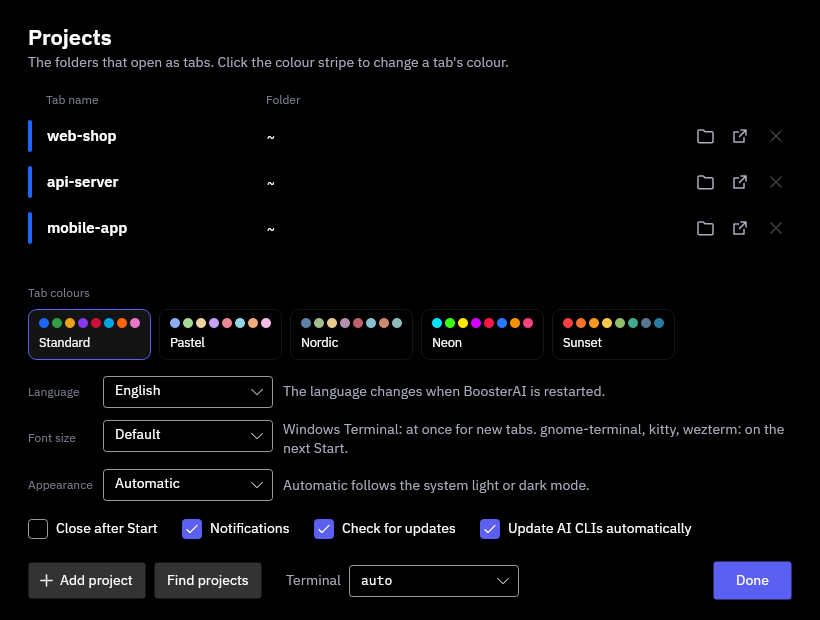
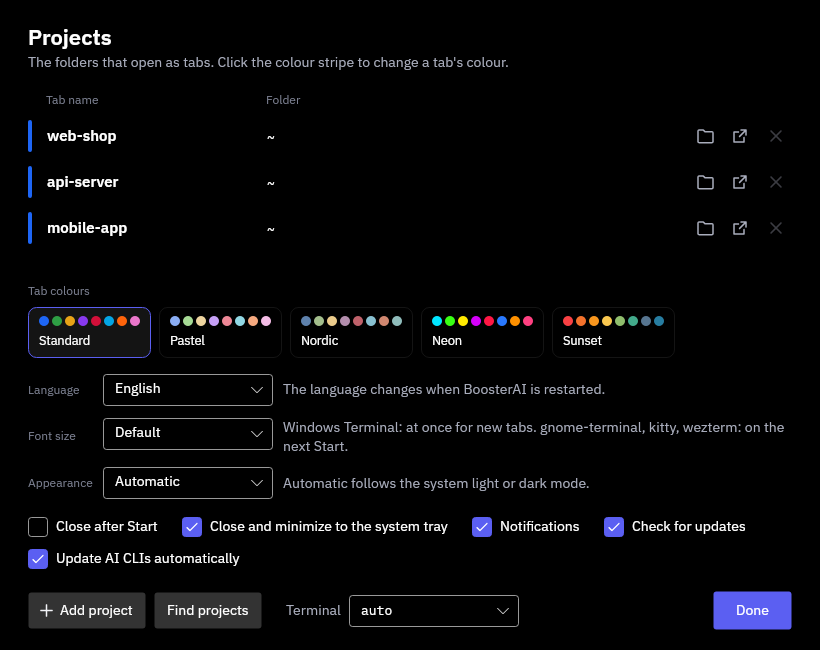
Close and minimize to the tray on Windows by default, with a setting (#64)

diff --git a/src/BoosterAI/MainWindow.axaml.cs b/src/BoosterAI/MainWindow.axaml.cs
@@ -18,9 +18,29 @@ public partial class MainWindow : Window
         _vm = vm;
         DataContext = vm;
         InitializeComponent();
-        Closing += (_, _) => _vm.Save();
+        Closing += OnClosing;
+        PropertyChanged += (_, e) =>
+        {
+            if (e.Property == WindowStateProperty && WindowState == WindowState.Minimized
+                && TrayPolicy.HideOnMinimize(_vm.MinimizeToTray, TrayAvailable())) Hide();
+        };
         Activated += (_, _) => _vm.Update.WindowActive(true);
         Deactivated += (_, _) => _vm.Update.WindowActive(false);
+    }
+
+    /// <summary>Windows only (Linux trays need a StatusNotifierItem host, missing on plain GNOME); shows the tray icon as a side effect.</summary>
+    private bool TrayAvailable() => OperatingSystem.IsWindows() && Application.Current is App app && app.ShowTray(this);
+
+    private void OnClosing(object? sender, WindowClosingEventArgs e)
+    {
+        _vm.Save();
+        // Only the user's own close can hide; probe the tray only then, so no icon appears for a real exit.
+        if (_vm.MinimizeToTray && !e.IsProgrammatic && e.CloseReason == WindowCloseReason.WindowClosing
+            && TrayPolicy.HideOnClose(_vm.MinimizeToTray, TrayAvailable(), e.CloseReason, e.IsProgrammatic, App.QuitRequested))
+        {
+            e.Cancel = true;
+            Hide();
+        }
     }
 
     private async void OnSettings(object? sender, RoutedEventArgs e)
@@ -114,8 +134,8 @@ public partial class MainWindow : Window
         if (_vm.CloseAfterLaunch) Close();
         else
         {
-            // Minimize rather than hide: the taskbar button stays, so the status is one click away.
-            // Windows also gets a tray icon; Linux trays need a StatusNotifierItem host (missing on plain GNOME).
+            // With the tray setting on (and a tray), minimizing hides the window to the tray icon; otherwise the
+            // taskbar button stays, so the status is one click away. Windows also gets a tray icon either way.
             if (OperatingSystem.IsWindows() && Application.Current is App app) app.ShowTray(this);
             WindowState = WindowState.Minimized;
         }

diff --git a/src/BoosterAI/App.axaml.cs b/src/BoosterAI/App.axaml.cs
@@ -48,7 +48,7 @@ public partial class App : Application
         // --screenshot builds its window itself (Screenshot.Run), headless and never shown.
         if (ApplicationLifetime is IClassicDesktopStyleApplicationLifetime desktop && !Screenshot.Active)
         {
-            // A minimized window keeps the app running; closing it (or Quit in the tray) ends it.
+            // A minimized or tray-hidden window keeps the app running; closing it (with Minimize to tray off), or Quit in the tray, ends it.
             desktop.ShutdownMode = ShutdownMode.OnMainWindowClose;
             var vm = new MainViewModel(_config);
             desktop.MainWindow = new MainWindow(vm);
@@ -73,13 +73,22 @@ public partial class App : Application
                 _tray = new TrayIcon { Icon = new WindowIcon(icon), ToolTipText = Loc.Get("tray.tip"), Menu = [show, quit] };
                 _tray.Clicked += (_, _) => Restore(window);
                 show.Click += (_, _) => Restore(window);
-                quit.Click += (_, _) => window.Close();
+                quit.Click += (_, _) => Quit();
                 TrayIcon.SetIcons(this, [_tray]);
             }
             _tray.IsVisible = true;
             return true;
         }
         catch (Exception) { return false; }
+    }
+
+    /// <summary>Set by the tray's Quit so the close it causes is not turned into hide-to-tray.</summary>
+    public static bool QuitRequested { get; private set; }
+
+    private void Quit()
+    {
+        QuitRequested = true;
+        if (ApplicationLifetime is IClassicDesktopStyleApplicationLifetime desktop) desktop.Shutdown();
     }
 
     private static void Restore(Window window)

diff --git a/tests/BoosterAI.Tests/TrayPolicyTests.cs b/tests/BoosterAI.Tests/TrayPolicyTests.cs
@@ -1,0 +1,33 @@
+using Avalonia.Controls;
+using BoosterAI;
+using Xunit;
+
+namespace BoosterAI.Tests;
+
+public class TrayPolicyTests
+{
+    [Fact]
+    public void MinimizeToTrayIsOnByDefault() => Assert.True(new AppConfig().MinimizeToTray);
+
+    [Fact]
+    public void UsersCloseHidesWhenSettingAndTrayAreOn() =>
+        Assert.True(TrayPolicy.HideOnClose(true, true, WindowCloseReason.WindowClosing, false, false));
+
+    [Theory]
+    [InlineData(false, true, WindowCloseReason.WindowClosing, false, false)] // setting off: today's behaviour
+    [InlineData(true, false, WindowCloseReason.WindowClosing, false, false)] // no tray: never an invisible app
+    [InlineData(true, true, WindowCloseReason.WindowClosing, true, false)]   // Close() after Start
+    [InlineData(true, true, WindowCloseReason.ApplicationShutdown, false, false)] // update install, Shutdown()
+    [InlineData(true, true, WindowCloseReason.OSShutdown, false, false)]
+    [InlineData(true, true, WindowCloseReason.WindowClosing, false, true)]   // tray Quit
+    public void OtherClosesReallyClose(bool setting, bool tray, WindowCloseReason reason, bool programmatic, bool quit) =>
+        Assert.False(TrayPolicy.HideOnClose(setting, tray, reason, programmatic, quit));
+
+    [Theory]
+    [InlineData(true, true, true)]
+    [InlineData(true, false, false)]
+    [InlineData(false, true, false)]
+    [InlineData(false, false, false)]
+    public void MinimizeHidesOnlyWithSettingAndTray(bool setting, bool tray, bool expected) =>
+        Assert.Equal(expected, TrayPolicy.HideOnMinimize(setting, tray));
+}

diff --git a/src/BoosterAI/ViewModels.cs b/src/BoosterAI/ViewModels.cs
@@ -430,6 +430,7 @@ public sealed partial class MainViewModel : Observable
         [new(Loc.Auto), new("sv"), new("en")];
 
     public bool CloseAfterLaunch { get => _cfg.CloseAfterLaunch; set { _cfg.CloseAfterLaunch = value; Raise(); } }
+    public bool MinimizeToTray { get => _cfg.MinimizeToTray; set { _cfg.MinimizeToTray = value; Raise(); } }
     public bool Notifications { get => _cfg.Notifications; set { _cfg.Notifications = value; Raise(); } }
     public bool AutoUpdateClis { get => _cfg.AutoUpdateClis; set { _cfg.AutoUpdateClis = value; Raise(); } }
 
@@ -606,7 +607,7 @@ public sealed partial class MainViewModel : Observable
     private void SettingsTakenOver()
     {
         foreach (var name in new[] { nameof(WslDistro), nameof(LinuxTerminal), nameof(Theme), nameof(SelectedTheme), nameof(SelectedLanguage),
-            nameof(SelectedAppearance), nameof(CloseAfterLaunch), nameof(Notifications), nameof(SelectedZoom), nameof(AutoUpdateClis), nameof(CheckForUpdates) })
+            nameof(SelectedAppearance), nameof(CloseAfterLaunch), nameof(MinimizeToTray), nameof(Notifications), nameof(SelectedZoom), nameof(AutoUpdateClis), nameof(CheckForUpdates) })
             Raise(name);
         foreach (var t in Tabs) t.RaiseColor();
         (Avalonia.Application.Current as App)?.ApplyTheme();

diff --git a/src/BoosterAI/Config.cs b/src/BoosterAI/Config.cs
@@ -36,6 +36,8 @@ public sealed class AppConfig
     public string AppTheme { get; set; } = "auto";
     /// <summary>Close after Start (the behaviour before tab monitoring) instead of watching the tabs from the tray.</summary>
     public bool CloseAfterLaunch { get; set; }
+    /// <summary>Windows: the close button and Minimize hide the window to the tray icon, where the tabs stay watched. Needs a working tray; Close after Start wins.</summary>
+    public bool MinimizeToTray { get; set; } = true;
     /// <summary>System notification when a watched tab closes, fails to start or its CLI fails.</summary>
     public bool Notifications { get; set; } = true;
     /// <summary>Global CLI zoom in percent of the terminal's default font size; 0 = terminal default (nothing is changed).</summary>
@@ -136,6 +138,7 @@ public static class ConfigMerge
         S(c => c.Language, (c, v) => c.Language = v),
         S(c => c.AppTheme, (c, v) => c.AppTheme = v),
         S(c => c.CloseAfterLaunch, (c, v) => c.CloseAfterLaunch = v),
+        S(c => c.MinimizeToTray, (c, v) => c.MinimizeToTray = v),
         S(c => c.Notifications, (c, v) => c.Notifications = v),
         S(c => c.ZoomPercent, (c, v) => c.ZoomPercent = v),
         S(c => c.AutoUpdateClis, (c, v) => c.AutoUpdateClis = v),

diff --git a/src/BoosterAI/TrayPolicy.cs b/src/BoosterAI/TrayPolicy.cs
@@ -1,0 +1,17 @@
+using Avalonia.Controls;
+
+namespace BoosterAI;
+
+/// <summary>Decides when the main window goes to the tray instead of closing or minimizing to the taskbar.</summary>
+public static class TrayPolicy
+{
+    /// <summary>
+    /// True when a close request should hide the window: only the user's own close (X, Alt+F4), never a
+    /// programmatic Close (Close after Start), an application or OS shutdown, or a requested real quit.
+    /// </summary>
+    public static bool HideOnClose(bool minimizeToTray, bool trayAvailable, WindowCloseReason reason, bool programmatic, bool quitRequested) =>
+        minimizeToTray && trayAvailable && !quitRequested && !programmatic && reason == WindowCloseReason.WindowClosing;
+
+    /// <summary>True when minimizing should hide the window from the taskbar and leave only the tray icon.</summary>
+    public static bool HideOnMinimize(bool minimizeToTray, bool trayAvailable) => minimizeToTray && trayAvailable;
+}

diff --git a/tests/BoosterAI.Tests/ConfigSaveTests.cs b/tests/BoosterAI.Tests/ConfigSaveTests.cs
@@ -78,7 +78,7 @@ public class ConfigMergeTests
         var disk = new AppConfig
         {
             WslDistro = "Debian", LinuxTerminal = "kitty", ColorTheme = "Other", Language = "en", AppTheme = "dark",
-            CloseAfterLaunch = true, Notifications = false, ZoomPercent = 80, AutoUpdateClis = false, CheckForUpdates = false,
+            CloseAfterLaunch = true, MinimizeToTray = false, Notifications = false, ZoomPercent = 80, AutoUpdateClis = false, CheckForUpdates = false,
             SkippedVersion = "9.9.9", LastUpdateCheck = new DateTime(2026, 10, 29, 9, 18, 39, DateTimeKind.Utc),
         };
         var mine = new AppConfig();

diff --git a/docs/DETAILS.md b/docs/DETAILS.md
@@ -88,7 +88,7 @@ Each CLI is checked at most every six hours: the time is the stamp `~/.local/sha
 
 ## Watching the tabs
 
-After **Start**, BoosterAI stays running and shows a status per tab: *Starting…*, *Running*, *Watching* (Run once only: a turn ended and the CLI waits), *CLI exited (code)*, *CLI not found*, *Did not start*, *Tab closed* or *Lost*. The window minimizes to the taskbar, so the status is one click away. Closing the window quits BoosterAI. On Windows there is also a tray icon (Windows may tuck it behind the ^ arrow) whose menu shows the window or quits. Linux gets no tray icon, because many desktops (plain GNOME, for example) have no tray. A tab that has closed or whose CLI has exited gets a restart button. The button starts the same AI, model and orchestra choice. If the CLI exited while the tracked shell remains alive, it queues `RestartScript` through `QueueNext` and runs it in that same tab, preserving the title, track and log. The next `cli-start` changes the status back to Running. This also applies to Continue and Run once, regardless of selections edited since launch. PID and `/proc` start time must match; a closed or reused PID is never treated as a live shell. Tabs opened by older builds without the idle-shell restart capability use the closed-tab fallback.
+After **Start**, BoosterAI stays running and shows a status per tab: *Starting…*, *Running*, *Watching* (Run once only: a turn ended and the CLI waits), *CLI exited (code)*, *CLI not found*, *Did not start*, *Tab closed* or *Lost*. On Windows the window then goes to the tray icon (Windows may tuck it behind the ^ arrow): the close button (X, Alt+F4) and Minimize hide it from the taskbar instead of quitting, and a click on the icon or *Show BoosterAI* brings it back; *Quit* in the icon's menu really quits, as does an update install. This is the *Close and minimize to the system tray* setting (`"MinimizeToTray"` in `config.json`, on by default); with it off, or if the tray icon cannot be shown, Minimize leaves a taskbar button and closing the window quits BoosterAI. *Close after Start* still wins and closes the app after Start. Linux gets no tray icon and keeps that taskbar behaviour, because many desktops (plain GNOME, for example) have no tray. A tab that has closed or whose CLI has exited gets a restart button. The button starts the same AI, model and orchestra choice. If the CLI exited while the tracked shell remains alive, it queues `RestartScript` through `QueueNext` and runs it in that same tab, preserving the title, track and log. The next `cli-start` changes the status back to Running. This also applies to Continue and Run once, regardless of selections edited since launch. PID and `/proc` start time must match; a closed or reused PID is never treated as a live shell. Tabs opened by older builds without the idle-shell restart capability use the closed-tab fallback.
 
 For a closed or lost tab, Windows keeps `wt -w <session> new-tab`. Linux deliberately opens a new window: Ptyxis `--tab` and gnome-terminal/xfce4-terminal `--tab` select an active/last window, and BoosterAI has no verified target for the session's window. Konsole's `--new-tab` also lacks a verified session target, so each call uses `--separate`. Kitty, wezterm and xterm likewise keep their new-window behavior. This prevents a restart from entering an unrelated terminal window. A batch of closed tabs restarted together shares one fresh window in Ptyxis, gnome-terminal and xfce4-terminal; Konsole and the other terminals use separate windows. If the session window is gone, the same fallback applies. `--dry-run` prints the explicit join-request fallback for every terminal.
 

diff --git a/README.md b/README.md
@@ -13,7 +13,7 @@ Start your whole working day with one click: BoosterAI opens every project you w
 - **One click, many tabs.** Each project opens in its own tab, in the right directory, with its own colour and title.
 - **Model per tab.** Include or skip a project, pick `claude`, `codex`, `agy` or a plain shell, and pick a model from the list or type any model id.
 - **Remembered between runs.** Your choices are saved, so the next start is usually one click.
-- **Status per tab.** Running while the terminal produces output, then Idle after a minute without output; a Run once tab whose turn ended while its CLI still waits shows Watching with the minutes since the turn; exited, not found or closed states stay distinct, with a restart button and a separate continue button for the latest conversation in that directory (claude, codex and agy). Hover a running tab's status to see its last 20 lines of terminal text, updated live, without switching to the terminal. Restart an exited CLI in its existing tab while its shell remains open. Closed Linux tabs safely open a new window (multiple tabs restarted together share it in Ptyxis, gnome-terminal and xfce4-terminal); they never target an unrelated active window. Change the AI or model of a running tab and the button restarts it in place with the new choice, keeping the conversation for a model change; it warns while the CLI is working and can wait until it is idle. After BoosterAI restarts (an update, say) it finds the tabs that still run; the startup notice clears when a recovered tab changes state, and *Start* opens only the ones that don't; the window minimizes to the taskbar (plus a tray icon on Windows).
+- **Status per tab.** Running while the terminal produces output, then Idle after a minute without output; a Run once tab whose turn ended while its CLI still waits shows Watching with the minutes since the turn; exited, not found or closed states stay distinct, with a restart button and a separate continue button for the latest conversation in that directory (claude, codex and agy). Hover a running tab's status to see its last 20 lines of terminal text, updated live, without switching to the terminal. Restart an exited CLI in its existing tab while its shell remains open. Closed Linux tabs safely open a new window (multiple tabs restarted together share it in Ptyxis, gnome-terminal and xfce4-terminal); they never target an unrelated active window. Change the AI or model of a running tab and the button restarts it in place with the new choice, keeping the conversation for a model change; it warns while the CLI is working and can wait until it is idle. After BoosterAI restarts (an update, say) it finds the tabs that still run; the startup notice clears when a recovered tab changes state, and *Start* opens only the ones that don't; on Windows the close button and Minimize put the window in the tray, where the tabs stay watched (*Close and minimize to the system tray* in Settings, on by default); on Linux the window minimizes to the taskbar.
 - **Restart in one step.** With two or more restartable tabs (ended CLIs, or a changed model), *Restart all* appears beside *Start*; tabs whose CLI is working are asked about once (now, when idle, or cancel).
 - **End the day.** *Close all* asks the running agents to save, commit and push in a continued conversation, then closes their tabs. A progress dialog offers cancel and force close; interrupted turns and permission limits are explained before starting.
 - **Reorder tabs.** Drag the handle beside a project name to move its row; the order is remembered for the next launch.
